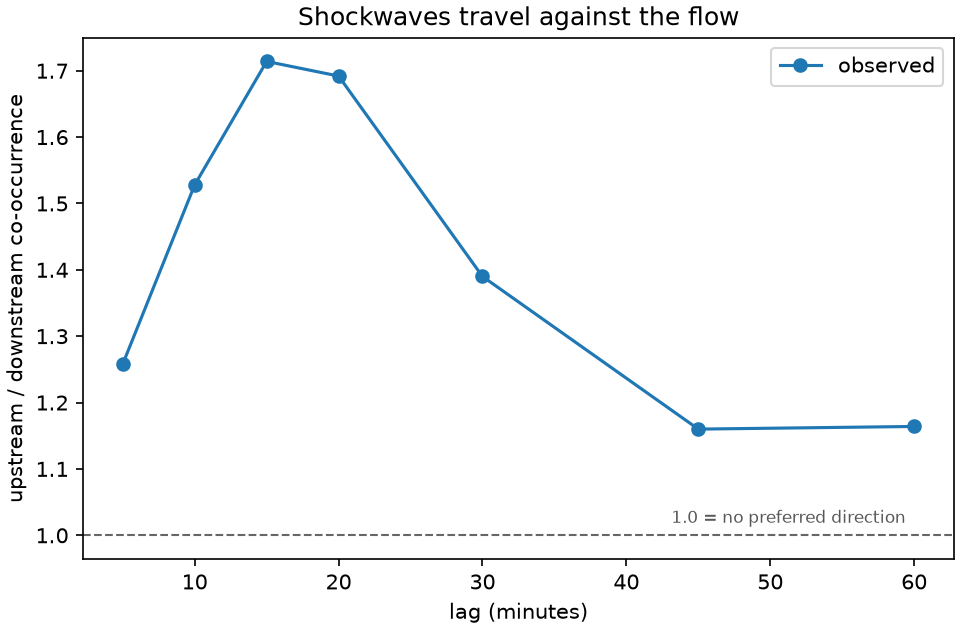
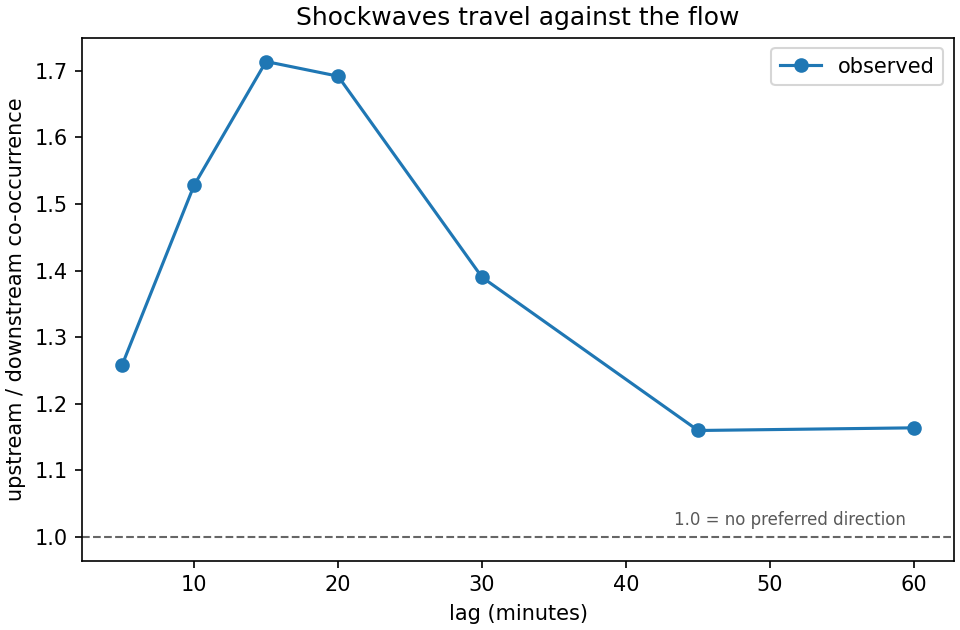
figures: draw predictions on the observed time grid, and cap the panel count
Two bugs, and together they produced a 68,640 x 900 px image whose `observed`
panel was blank.

1. A prediction file is indexed by SAMPLE and covers a whole test block, so
   `z["pred"][:, h]` is ~8,000 rows while `speed[sel]` is one day, ~200. Passed
   into imshow side by side with sharey=True, the observed panel was squashed
   into a sliver at the bottom and the model panels showed a month of forecasts
   captioned as one day. prediction_panel() now scatters each forecast back to
   the timestep it predicts (timesteps + h) on the global axis, averages the
   seeds, and leaves uncovered cells NaN, drawn white.

2. One panel per FILE meant 82 panels for the 81-run bundle. Files are now
   grouped into models by stripping __foldNN/__seedNN, and --max-panels (4)
   refuses to draw a figure nobody can read.

Also: one x label per row instead of three overlapping copies, a figure width
that fits on a page, and --horizon to choose which step is drawn.

contract.EVAL_HORIZON_STEPS regains "60min": 12, so the tables can be read
against the published PEMS-BAY row. Predictions already carry all 12 steps, so
this only chooses which get a column. 45min stays for the reason recorded there.

diff --git a/src/eval/figures.py b/src/eval/figures.py
@@ -31,6 +31,7 @@ from __future__ import annotations
 
 import argparse
 import pathlib
+import re
 
 import matplotlib
 matplotlib.use("Agg")
@@ -71,19 +72,62 @@ def freeway_order(cfg, sensor_ids, freeway_dir: str) -> np.ndarray:
     return np.asarray(idx)
 
 
+def prediction_panel(files, horizon_key: str, n_times: int, n_nodes: int):
+    """[T, N] of the h-step-ahead forecast, on the SAME time grid as `speed`.
+
+    A prediction file is indexed by SAMPLE, not by timestep, and covers a whole
+    test block. `pred[i, h]` is the forecast for timestep `timesteps[i] + h`, so
+    it has to be scattered back onto the global axis before it can be drawn
+    beside the observed series. The first version of this module passed
+    `z["pred"][:, h]` straight into `imshow` next to one day of observations;
+    with `sharey=True` that squashed the observed panel into a sliver at the
+    bottom of the figure and captioned the result as a comparison.
+
+    Several files for the same model (the seeds) are averaged.
+    """
+    h = contract.EVAL_HORIZON_STEPS[horizon_key] - 1
+    total = np.zeros((n_times, n_nodes), np.float64)
+    count = np.zeros((n_times, 1), np.float64)
+    for f in files:
+        z = np.load(f)
+        ts = z["timesteps"] + h
+        keep = ts < n_times
+        total[ts[keep]] += z["pred"][keep, h]
+        count[ts[keep]] += 1.0
+    with np.errstate(invalid="ignore"):
+        out = total / np.where(count == 0, np.nan, count)
+    return out.astype(np.float32)
+
+
+def group_seeds(files):
+    """model name -> its files, collapsing __seedNN and __foldNN."""
+    import collections
+    by = collections.defaultdict(list)
+    for f in files:
+        name = pathlib.Path(f).stem
+        name = re.sub(r"__fold\d+", "", name)
+        name = re.sub(r"__seed\d+(?=__|$)", "", name)
+        by[name].append(f)
+    return by
+
+
 def spacetime(speed_panels: dict, nodes: np.ndarray, times: pd.DatetimeIndex,
               title: str, out: pathlib.Path):
     """One panel per series in `speed_panels` (name -> [T, N] on the same grid)."""
     n = len(speed_panels)
-    fig, axes = plt.subplots(1, n, figsize=(5.2 * n, 6.0), sharey=True,
+    fig, axes = plt.subplots(1, n, figsize=(3.6 * n, 5.4), sharey=True,
                              constrained_layout=True)
     axes = np.atleast_1d(axes)
     for ax, (name, arr) in zip(axes, speed_panels.items()):
-        im = ax.imshow(arr[:, nodes], aspect="auto", origin="lower",
-                       cmap=SPEED_CMAP, vmin=SPEED_VMIN, vmax=SPEED_VMAX,
-                       interpolation="nearest")
-        ax.set_title(name)
-        ax.set_xlabel("sensor, in road order  ->  direction of travel")
+        cmap = plt.get_cmap(SPEED_CMAP).copy()
+        cmap.set_bad("white")
+        im = ax.imshow(np.ma.masked_invalid(arr[:, nodes]), aspect="auto",
+                       origin="lower", cmap=cmap, vmin=SPEED_VMIN,
+                       vmax=SPEED_VMAX, interpolation="nearest")
+        ax.set_title(name, fontsize=9)
+    # one x label for the row: three overlapping copies is not three labels.
+    axes[len(axes) // 2].set_xlabel(
+        "sensor, in road order  ->  direction of travel")
     step = max(1, len(times) // 12)
     axes[0].set_yticks(np.arange(0, len(times), step))
     axes[0].set_yticklabels([t.strftime("%H:%M") for t in times[::step]])
@@ -164,6 +208,11 @@ def main() -> int:
     ap.add_argument("--to-hour", type=int, default=22)
     ap.add_argument("--predictions", nargs="*", default=[],
                     help="data/processed/predictions/*.npz to overlay")
+    ap.add_argument("--horizon", default="60min",
+                    choices=list(contract.EVAL_HORIZON_STEPS),
+                    help="which forecast horizon to draw")
+    ap.add_argument("--max-panels", type=int, default=4,
+                    help="refuse to draw more model panels than this")
     ap.add_argument("--auto", action="store_true",
                     help="ignore --date; draw one panel per rolling fold, each "
                          "on the wettest commute day inside that fold's TEST "
@@ -194,10 +243,19 @@ def main() -> int:
             print(f"  skipping {date}: not in the time axis")
             continue
         panels = {"observed": speed[sel]}
-        for f in args.predictions:
-            z = np.load(f)
-            panels[pathlib.Path(f).stem] = z["pred"][
-                :, contract.EVAL_HORIZON_STEPS["30min"] - 1]
+        grouped = group_seeds(args.predictions)
+        if len(grouped) > args.max_panels:
+            raise SystemExit(
+                f"{len(grouped)} models would give {len(grouped) + 1} panels. "
+                f"A space-time diagram is read by comparing two or three series "
+                f"side by side, not {len(grouped)}. Pass fewer files, or raise "
+                f"--max-panels deliberately.")
+        for name, files in grouped.items():
+            full = prediction_panel(files, args.horizon, len(ti), speed.shape[1])
+            if np.isnan(full[sel]).all():
+                print(f"  skipping {name} on {date}: no predictions cover it")
+                continue
+            panels[f"{name}\n({args.horizon} ahead)"] = full[sel]
         written.append(spacetime(
             panels, nodes, ti[sel],
             f"{args.freeway}, {date} - a band leaning backwards is a "

diff --git a/src/contract.py b/src/contract.py
@@ -189,7 +189,13 @@ HORIZON = 12            # 12 steps = 60 min ahead       -> Y
 # free-flow). 15-30 min is also the operating window for the interventions the
 # proposal names - variable speed limits, ramp metering, en-route advisories.
 # Restore "60min": 12 here if a reviewer asks for it; nothing else changes.
-EVAL_HORIZON_STEPS = {"15min": 3, "30min": 6, "45min": 9}
+# 60min is back: the paper reports 15/30/60 so its table can be read against
+# the published PEMS-BAY row (Wu et al. 2019). 45min stays because the error a
+# 60-min row reports is dominated by free flow - a per-node AR(12) is out by
+# 17.56 mph below 35 mph at 60 min against 5.35 at 15, while its aggregate
+# column moves only 1.63 -> 3.20. Adding a key costs nothing: predictions
+# already carry all 12 steps, so this only chooses which get a column.
+EVAL_HORIZON_STEPS = {"15min": 3, "30min": 6, "45min": 9, "60min": 12}
 
 # A LONGER HORIZON IS THE OBVIOUS NEXT EXPERIMENT, and it is nearly free -
 # horizon only sizes the final Linear(64, HORIZON); the ST-Conv blocks operate
